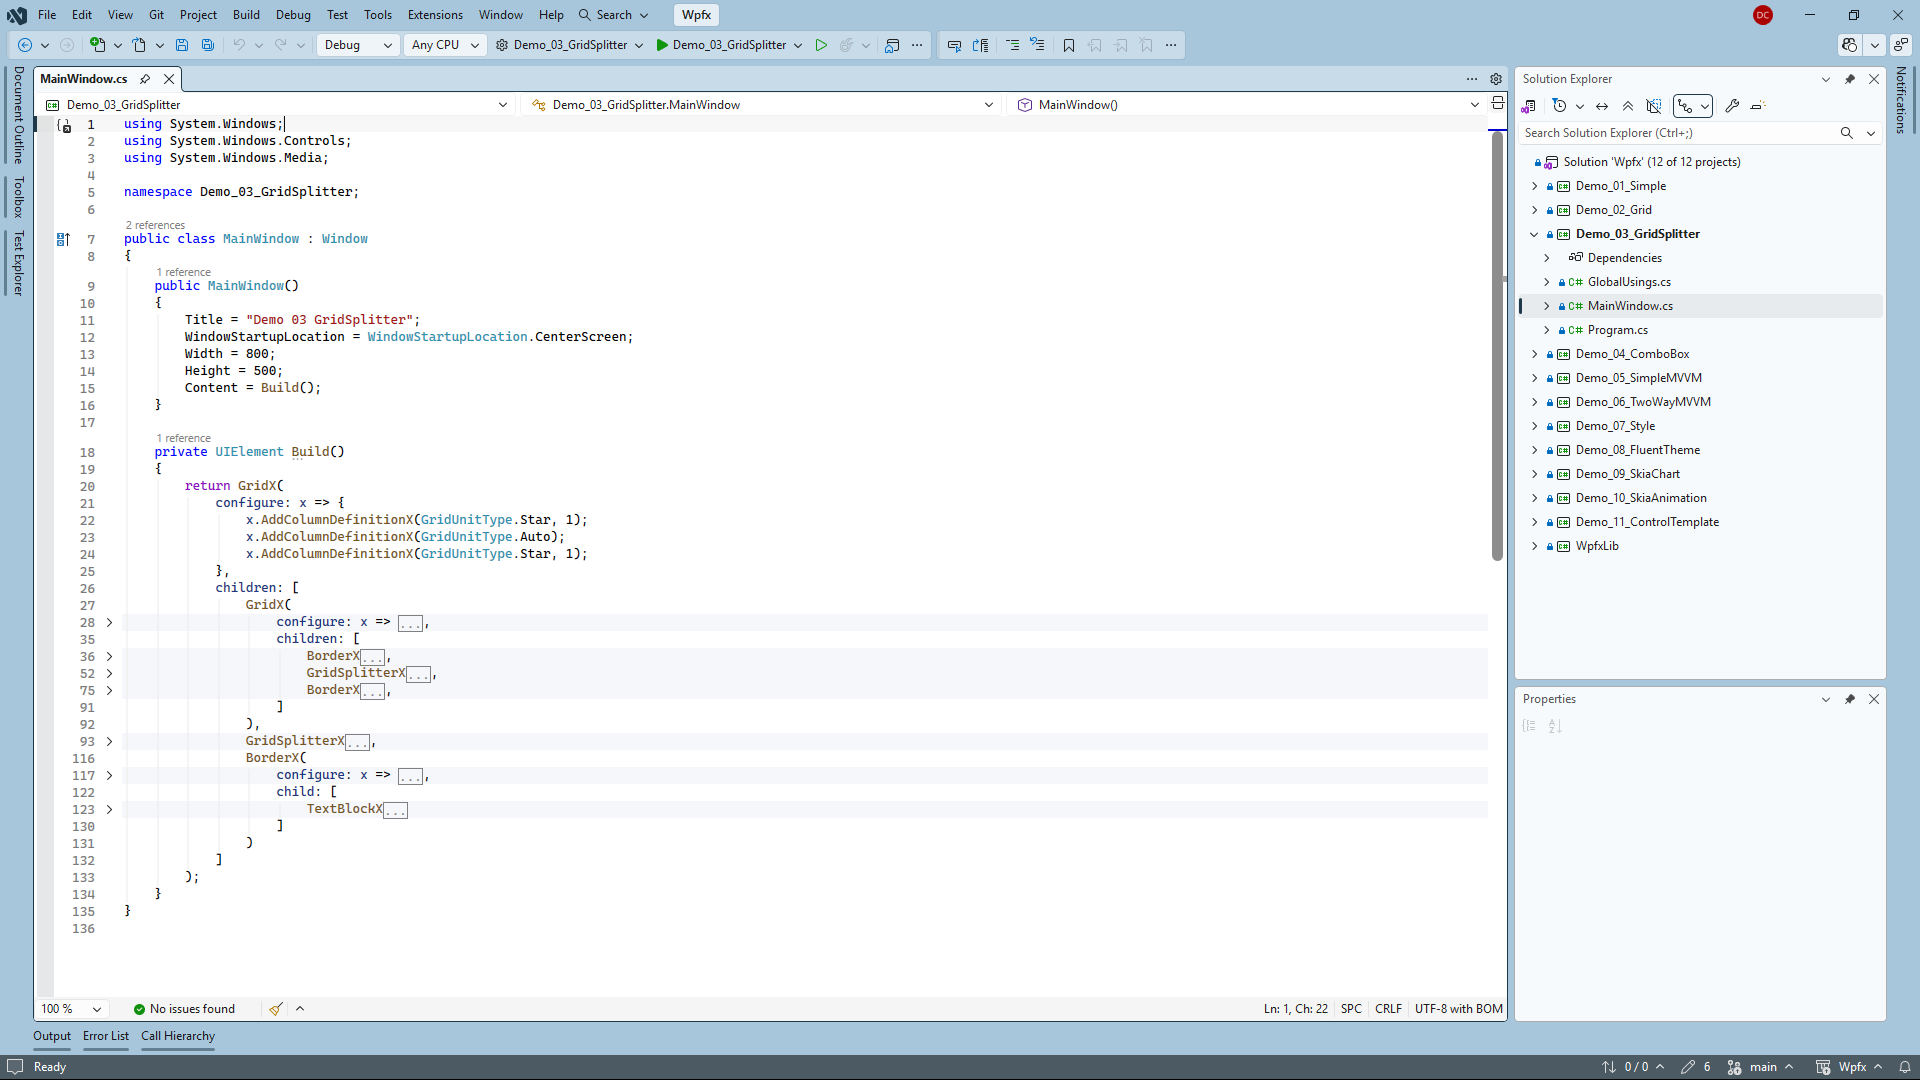
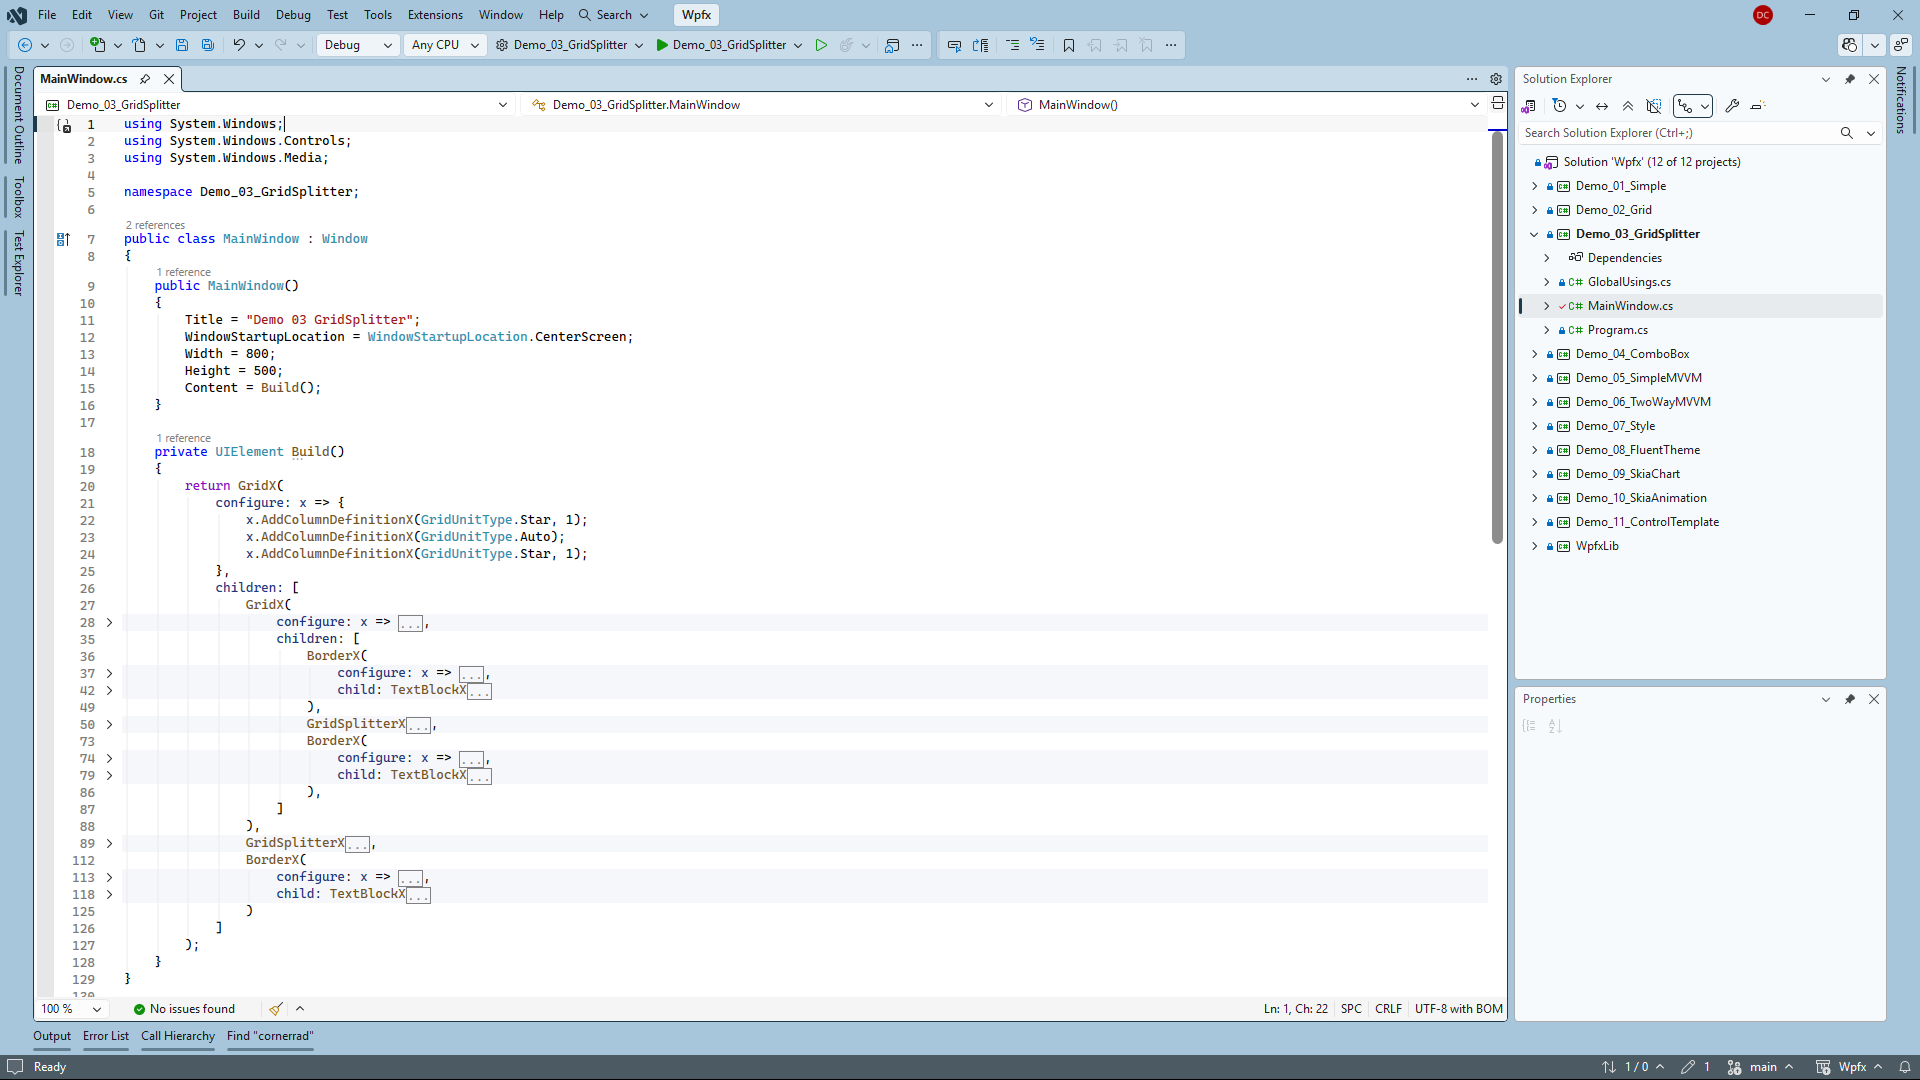
Revise README, image, package version: 0.1.0-alpha.3

diff --git a/README.md b/README.md
@@ -18,12 +18,12 @@ Build familiar WPF controls and supporting types using `X` helper methods:
 | ------------------ | -------------------------- |
 | `StackPanel`       | `Wpfx.StackPanelX()`       |
 | `Grid`             | `Wpfx.GridX()`             |
-| `CornerRadius`     | `Wpfx.CornerRadiusX()`     |
-| `Thickness`        | `Wpfx.ThicknessX()`        |
 | `Border`           | `Wpfx.BorderX()`           |
 | `Button`           | `Wpfx.ButtonX()`           |
 | `Slider`           | `Wpfx.SliderX()`           |
 | `TextBox`          | `Wpfx.TextBoxX()`          |
+| `Thickness`        | `Wpfx.ThicknessX()`        |
+| `CornerRadius`     | `Wpfx.CornerRadiusX()`     |
 
 ---
 
@@ -96,7 +96,7 @@ dotnet add package UserExtensions.Wpfx
 
 WPFX is intentionally lightweight.
 
-If you prefer not to take a package dependency, simply copy `Wpfx.cs` directly into your project. The library is contained in a single source file of fewer than 300 lines, making it easy to inspect, understand, and modify if desired.
+If you prefer not to take a package dependency, simply copy `Wpfx.cs` directly into your project. The library is contained in a single source file, making it easy to inspect and modify if desired.
 
 ### Global using
 
